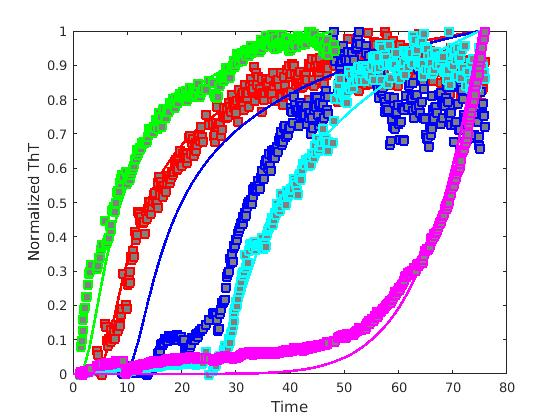
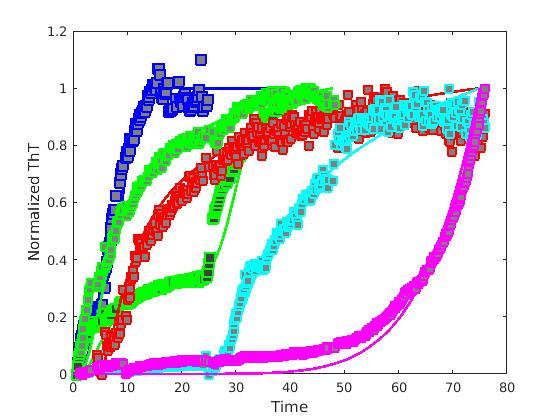
final fit

diff --git a/global_fit/global_fit2/value_Secondary_bridge_2.m b/global_fit/global_fit2/value_Secondary_bridge_2.m
@@ -6,14 +6,14 @@ all_data=xlsread('on_off_final.xlsx');
 %parameters
 n=27;
 endS=75;
-tht=20000;
+tht=20000000;
 % on pathway rate constant
 aon=0.04;
 bon=0.035;
-con=0.35e7;
+con=0.35e8;
 don=1e-3;
 %off pathway rate constant
-x=80e-1;
+x=50e-1;
 y =1e-1;
 z=140e-1;
 zz=10e-1; 
@@ -82,52 +82,52 @@ ylabel('Normalized ThT')
 %md=fitlm(signal(1:end),X([1:6:end],2))
 
 
-% fit 3
-% call ode 
-theta=[aon,bon,con,don,x,y,z,zz,r1,s1,f1,f2,p1,p2,swiF,swiB]; 
-Y0=zeros(1,n); 
-Y0(1)=A_1;
-Y0(12)=0;
-Y0(n)=Eeff;
-% Y0(12)=5e-6;
-t_range=linspace(0,endS,endS+1); 
-[t_val,Y_val]=ode23s(@lee_ode_Secondary_bridge_8,t_range,Y0,[],n,theta);
-Y_val([1:5:endS+1],[1 2 4 12 13  21  25 26 27])
-
-%claculate signal
-signalON=Y_val(:,n)*0;
-signalOFF=Y_val(:,n)*0;
-signalON=signalON + Y_val(:,12)*tht;
-signalOFF=signalOFF+ 18*Y_val(:,22)+36*Y_val(:,23)+54*Y_val(:,24)+72*Y_val(:,25)+18*Y_val(:,26);
-% for i=13:20
-% signalOFF=signalOFF + Y_val(:,i).*(i-9);
+% % fit 3
+% % call ode 
+% theta=[aon,bon,con,don,x,y,z,zz,r1,s1,f1,f2,p1,p2,swiF,swiB]; 
+% Y0=zeros(1,n); 
+% Y0(1)=A_1;
+% Y0(12)=0;
+% Y0(n)=Eeff;
+% % Y0(12)=5e-6;
+% t_range=linspace(0,endS,endS+1); 
+% [t_val,Y_val]=ode23s(@lee_ode_Secondary_bridge_8,t_range,Y0,[],n,theta);
+% Y_val([1:5:endS+1],[1 2 4 12 13  21  25 26 27])
+% 
+% %claculate signal
+% signalON=Y_val(:,n)*0;
+% signalOFF=Y_val(:,n)*0;
+% signalON=signalON + Y_val(:,12)*tht;
+% signalOFF=signalOFF+ 18*Y_val(:,22)+36*Y_val(:,23)+54*Y_val(:,24)+72*Y_val(:,25)+18*Y_val(:,26);
+% % for i=13:20
+% % signalOFF=signalOFF + Y_val(:,i).*(i-9);
+% % end
+% signal=signalON+signalOFF;
+% signal = (signal - min(signal))/(max(signal) - min(signal));
+% 
+% oCon= 0;
+% for i=2:11
+% oCon= oCon + Y_val(:,i)*i;
 % end
-signal=signalON+signalOFF;
-signal = (signal - min(signal))/(max(signal) - min(signal));
-
-oCon= 0;
-for i=2:11
-oCon= oCon + Y_val(:,i)*i;
-end
-for i=13:21
-oCon= oCon + Y_val(:,i)*(i-9);
-end
-oCon=oCon+ 18*Y_val(:,22)+36*Y_val(:,23)+54*Y_val(:,24)+72*Y_val(:,25)+18*Y_val(:,26);
-aCon=Y_val(:,1);
-ratio=oCon./aCon;
-ratio(end);
-
-%plot
-plot(t_range, signal, '-b', 'LineWidth',2)
-hold on
-X=all_data(:,[1,7]);
-plot(X(:,1), (X(:,2) - min(X(:,2)))/(max(X(:,2)) - min(X(:,2))),'sb',...
-    'LineWidth',2,...
-    'MarkerSize',8,...
-    'MarkerEdgeColor','b',...
-    'MarkerFaceColor',[0.5,0.5,0.5])
-xlabel('Time')
-ylabel('Normalized ThT')
+% for i=13:21
+% oCon= oCon + Y_val(:,i)*(i-9);
+% end
+% oCon=oCon+ 18*Y_val(:,22)+36*Y_val(:,23)+54*Y_val(:,24)+72*Y_val(:,25)+18*Y_val(:,26);
+% aCon=Y_val(:,1);
+% ratio=oCon./aCon;
+% ratio(end);
+% 
+% %plot
+% plot(t_range, signal, '-b', 'LineWidth',2)
+% hold on
+% X=all_data(:,[1,7]);
+% plot(X(:,1), (X(:,2) - min(X(:,2)))/(max(X(:,2)) - min(X(:,2))),'sb',...
+%     'LineWidth',2,...
+%     'MarkerSize',8,...
+%     'MarkerEdgeColor','b',...
+%     'MarkerFaceColor',[0.5,0.5,0.5])
+% xlabel('Time')
+% ylabel('Normalized ThT')
 
 %md=fitlm(signal(1:end),X([1:6:end],2))
 

diff --git a/off_to_on/value_Secondary_bridge.m b/off_to_on/value_Secondary_bridge.m
@@ -5,13 +5,13 @@
 perS=5;
 perE=40;
 dilu=5;
-tht=250000;
+tht=2000000;
 n=27;
 
 % on pathway rate constant
-aon=0.10;
+aon=0.04;
 bon=0.035;
-con=0.35e7;
+con=0.35e8;
 don=1e-3;
 %off pathway rate constant
 x=50e-1;
@@ -56,17 +56,14 @@ Y_val=[Y_val1;Y_val2];
 t_range2=t_range2+perS;
 t_range=[t_range1 t_range2];
 
-Y_val([1:1:perE],[1 4 12 13  21  26 27])
-
+Y_val([1:1:perE],[1 4 12 13  21  26 27]);
 Y_val=[Y_val1;dilu.*Y_val2];
+
 %claculate signal
 signalON=Y_val(:,n)*0;
 signalOFF=Y_val(:,n)*0;
 signalON=signalON + Y_val(:,12)*tht;
 
-% for i=13:21
-%     signalOFF=signalOFF+Y_val(:,i).*(i-9);
-% end
 
 signalOFF=signalOFF+18*Y_val(:,22)+36*Y_val(:,23)+54*Y_val(:,24)+72*Y_val(:,25)+18*Y_val(:,26);
 signal=signalON+signalOFF;
@@ -84,7 +81,7 @@ plot(num(:,1), 1.1*(num(:,3)-min(num(:,3)))/(max(num(:,3))-min(num(:,3))),'gs',.
     'MarkerFaceColor',[0.5,0.5,0.5]);
 
 
-tht=700000;
+tht=8000000;
 perS=24;
 perE=40;
 dilu=5;
